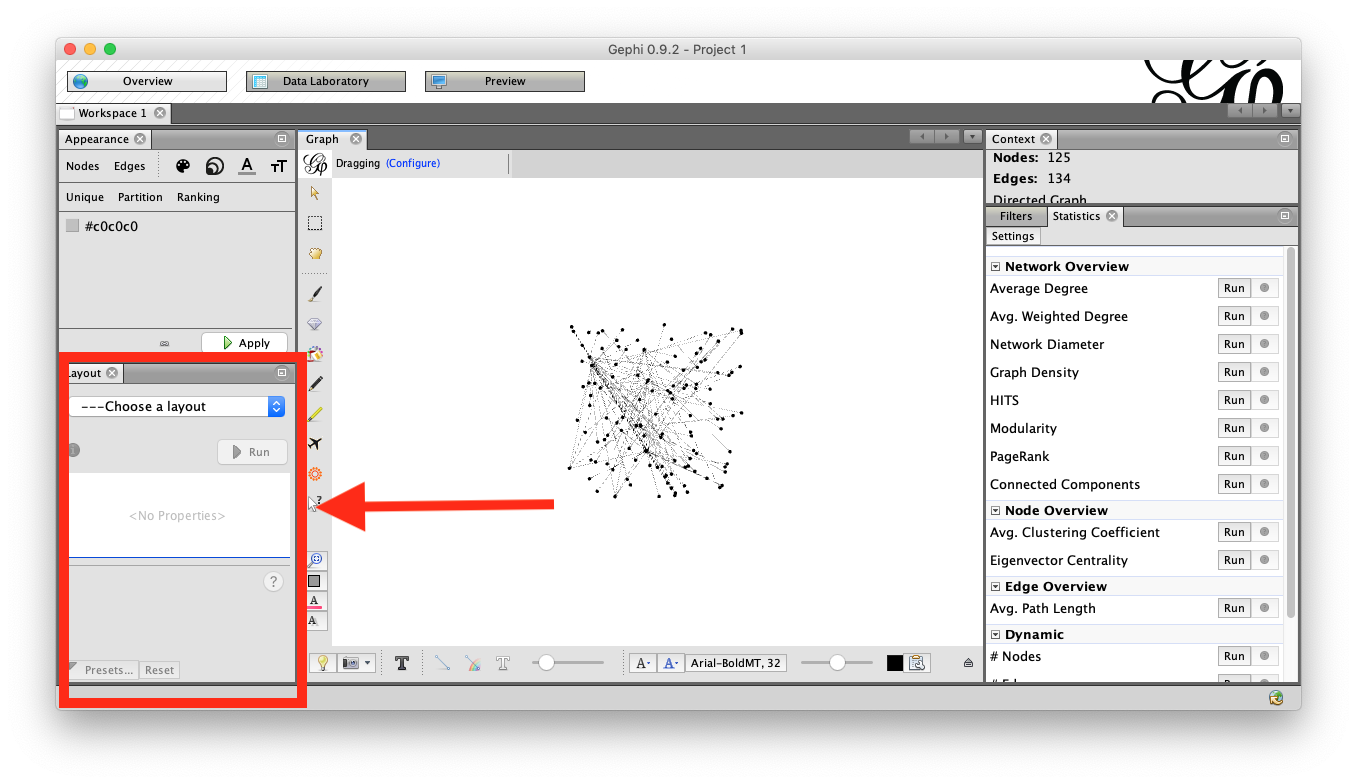
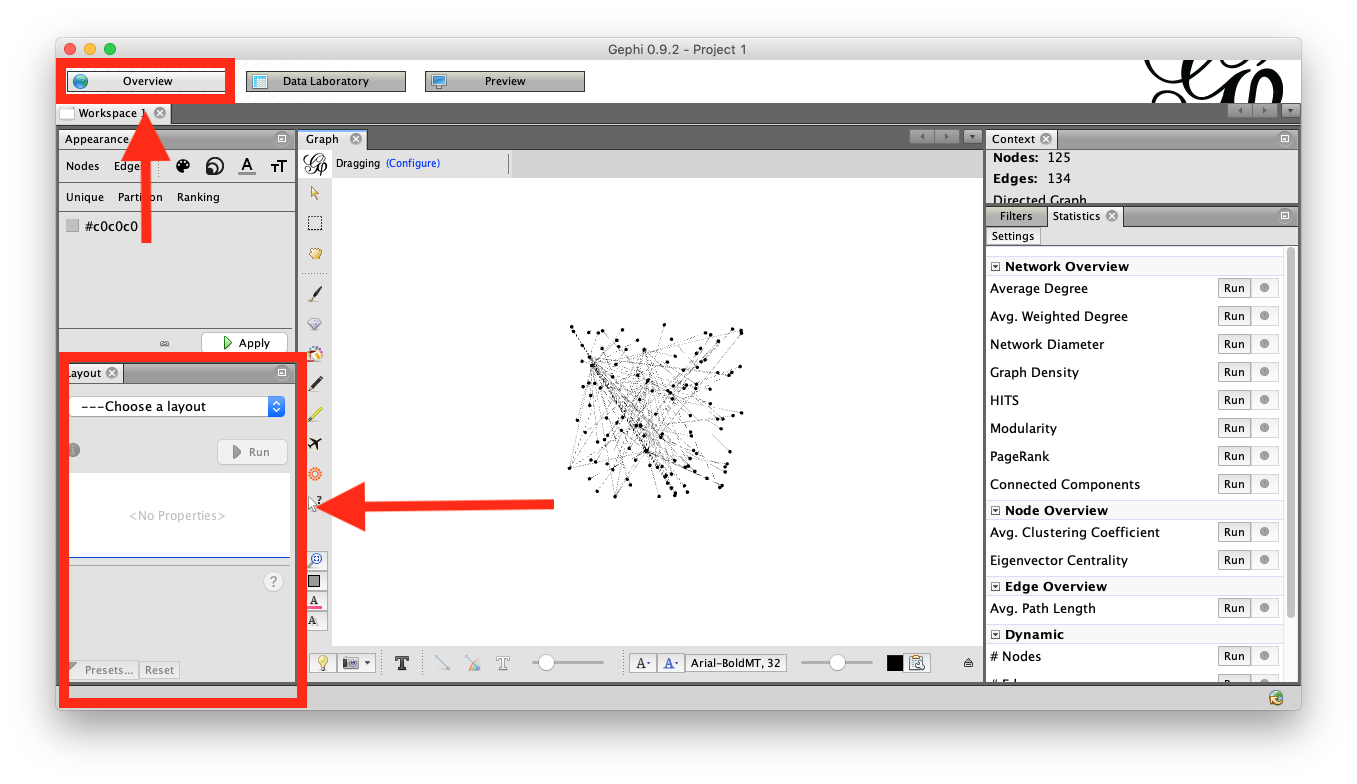
@SamFritz review

Changed region(s): [[0.031, 0.0612, 0.1857, 0.3061]]

diff --git a/content/aut/lesson.md b/content/aut/lesson.md
@@ -299,7 +299,7 @@ The first step should be to work with this network diagram so you can make a bea
 
 You should now download and install Gephi, which you can find [here](http://gephi.github.io/). 
 
-On the opening screen, you want to select “Open a Graph File...” and select the links-for-gephi.gexf file that you generated in the last script. It will be found in the `/data` directory you have been working with.
+Upon opening the Gephi application, you want to select “Open a Graph File...” and select the links-for-gephi.gexf file that you generated in the last script. It will be found in the `/data` directory you have been working with.
 
 ![open file](/images/gephi-1.png)
 
@@ -307,11 +307,11 @@ You then want to click 'ok' on the next page. You can see in the sample data tha
 
 ![import report](/images/gephi-2.png)
 
-You'll now see the following basic layout. Not too useful, is it? Let's begin by creating a new layout, which you'll see highlighted here below:
+You'll now see the following basic layout in the Overview tab. Not too useful, is it? Let's begin by creating a new layout, which you'll see highlighted here below:
 
 ![basic graph](/images/gephi-3.png)
 
-Select the layout tab at left, and select "Yifan Hu Proportional." Leave the values default, but you can begin to play with the figures and see what it does. To lay the graph out, please click the "run" button. 
+Select the layout tab at left, and select "Yifan Hu Proportional." Leave the values default, but you can begin to play with the figures and see what it does. To lay the graph out, click the "run" button. 
 
 The following image shows what this looks like after clicking "run" on the default visualization.
 
@@ -333,7 +333,7 @@ Now let's do the same for label size: the bigger the label, the more it is linke
 
 ![text size](/images/gephi-7.png)
 
-Some of the labels now overlap, so let's run another simple "layout." This time, we select "Label Adjust" and press play.
+Some of the labels now overlap, so let's run another simple "layout." This time, we select "Label Adjust" and press run.
 
 ![label adjust](/images/gephi-8.png)
 
@@ -354,7 +354,8 @@ Hazzah, now you have a nicely-laid out graph. Try experimenting with other featu
 ![final layout](/images/gephi-12.png)
 
 ### Learning Guides
-Once you're comfortable with Gephi, you can explore some of the other learning guides. See below:
+Once you're comfortable with Gephi, you can explore some of the other learning guides. See below: 
+
 * [**Filtering the Full-Text Derivative File**](https://cloud.archivesunleashed.org/derivatives/text-filtering): This tutorial explores the use of the "grep" command line tool to filter out dates, domains, and keywords from plain text.
 * [**Text Analysis Part One: Beyond the Keyword Search: Using AntConc**](https://cloud.archivesunleashed.org/derivatives/text-antconc): This tutorial explores how you can explore text within a web archive using the AntConc tool.
 * [**Text Analysis Part Two: Sentiment Analysis With the Natural Language Toolkit**](https://cloud.archivesunleashed.org/derivatives/text-sentiment): This tutorial explores how you can calculate the positivity or negativity (in an emotional sense) of web archive text.
